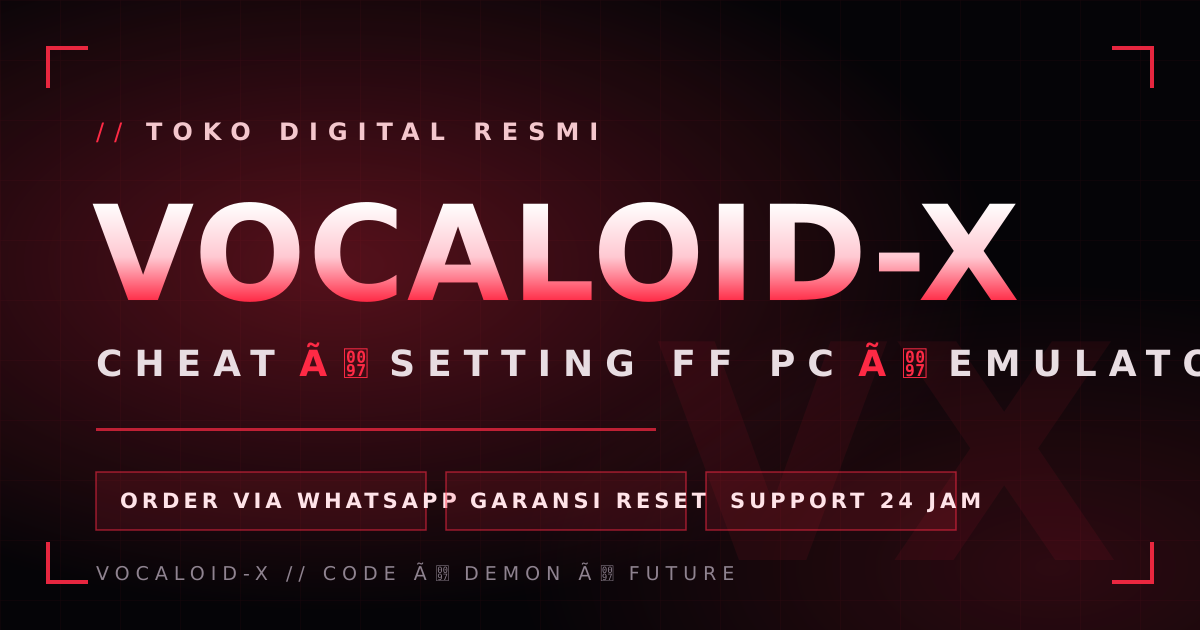
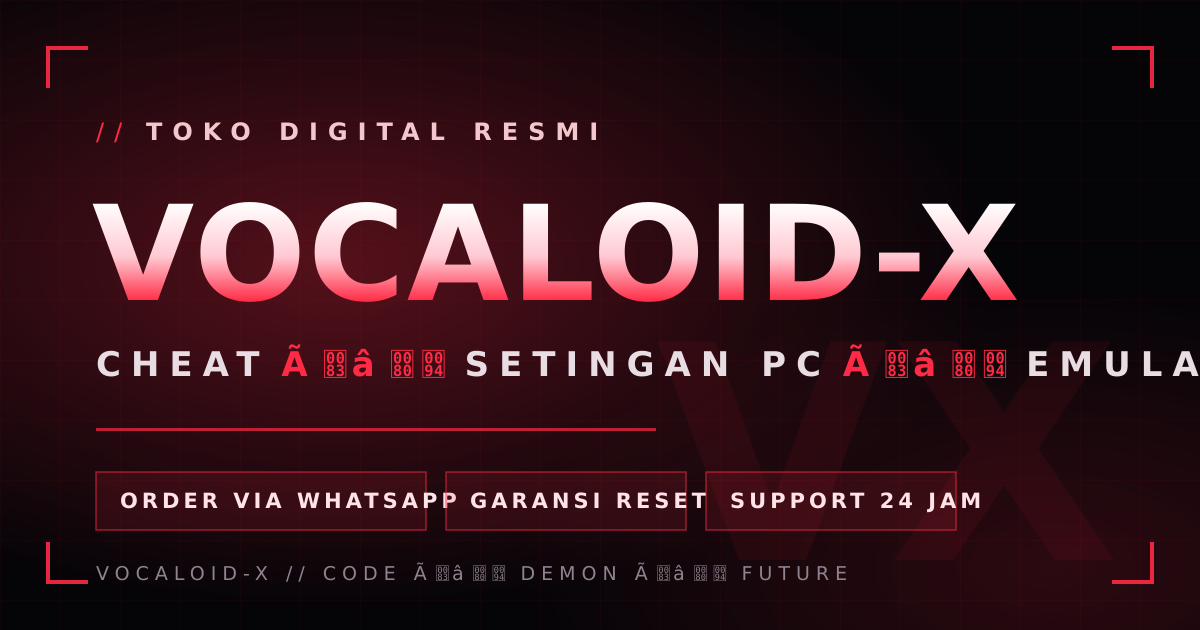
Freebuff: SETTING FF PC ubah menjadi SETINGAN PC

Changed region(s): [[0.0925, 0.5429, 1.0, 0.6032], [0.37, 0.8746, 0.7092, 0.9349]]

diff --git a/index.html b/index.html
@@ -14,7 +14,7 @@
   <!-- Catatan: setelah domain custom aktif, ganti og:image/twitter:image ke URL absolut -->
   <meta property="og:type" content="website" />
   <meta property="og:site_name" content="VOCALOID-X" />
-  <meta property="og:title" content="VOCALOID-X // CHEAT × SETTING FF PC" />
+  <meta property="og:title" content="VOCALOID-X // CHEAT × SETINGAN PC" />
   <meta
     property="og:description"
     content="Katalog paket cheat Free Fire PC & setting emulator. Update signature harian, garansi reset, order langsung via WhatsApp."
@@ -23,7 +23,7 @@
   <meta property="og:image:width" content="1200" />
   <meta property="og:image:height" content="630" />
   <meta name="twitter:card" content="summary_large_image" />
-  <meta name="twitter:title" content="VOCALOID-X // CHEAT × SETTING FF PC" />
+  <meta name="twitter:title" content="VOCALOID-X // CHEAT × SETINGAN PC" />
   <meta
     name="twitter:description"
     content="Katalog paket cheat Free Fire PC & setting emulator. Order cepat via WhatsApp, garansi reset."

diff --git a/src/pages/Landing.tsx b/src/pages/Landing.tsx
@@ -222,7 +222,7 @@ function Hero() {
               }}
               className="mt-5 font-display text-base font-bold tracking-[0.32em] text-rose-100 sm:text-lg"
             >
-              CHEAT <span className="text-vx-red">×</span> SETTING FF PC{" "}
+              CHEAT <span className="text-vx-red">×</span> SETINGAN PC{" "}
               <span className="text-vx-red">×</span> EMULATOR
             </motion.p>
 

diff --git a/src/lib/brand.ts b/src/lib/brand.ts
@@ -3,7 +3,7 @@
 export const BRAND_NAME = "VOCALOID-X";
 export const DEVELOPER_NAME = "FRHANLVLY";
 
-export const STORE_TAGLINE = "CHEAT × SETTING FF PC";
+export const STORE_TAGLINE = "CHEAT × SETINGAN PC";
 export const STORE_CITY = "Subang, Jawa Barat";
 
 export const SUPPORT_EMAIL = "order@vocaloid-x.store";
